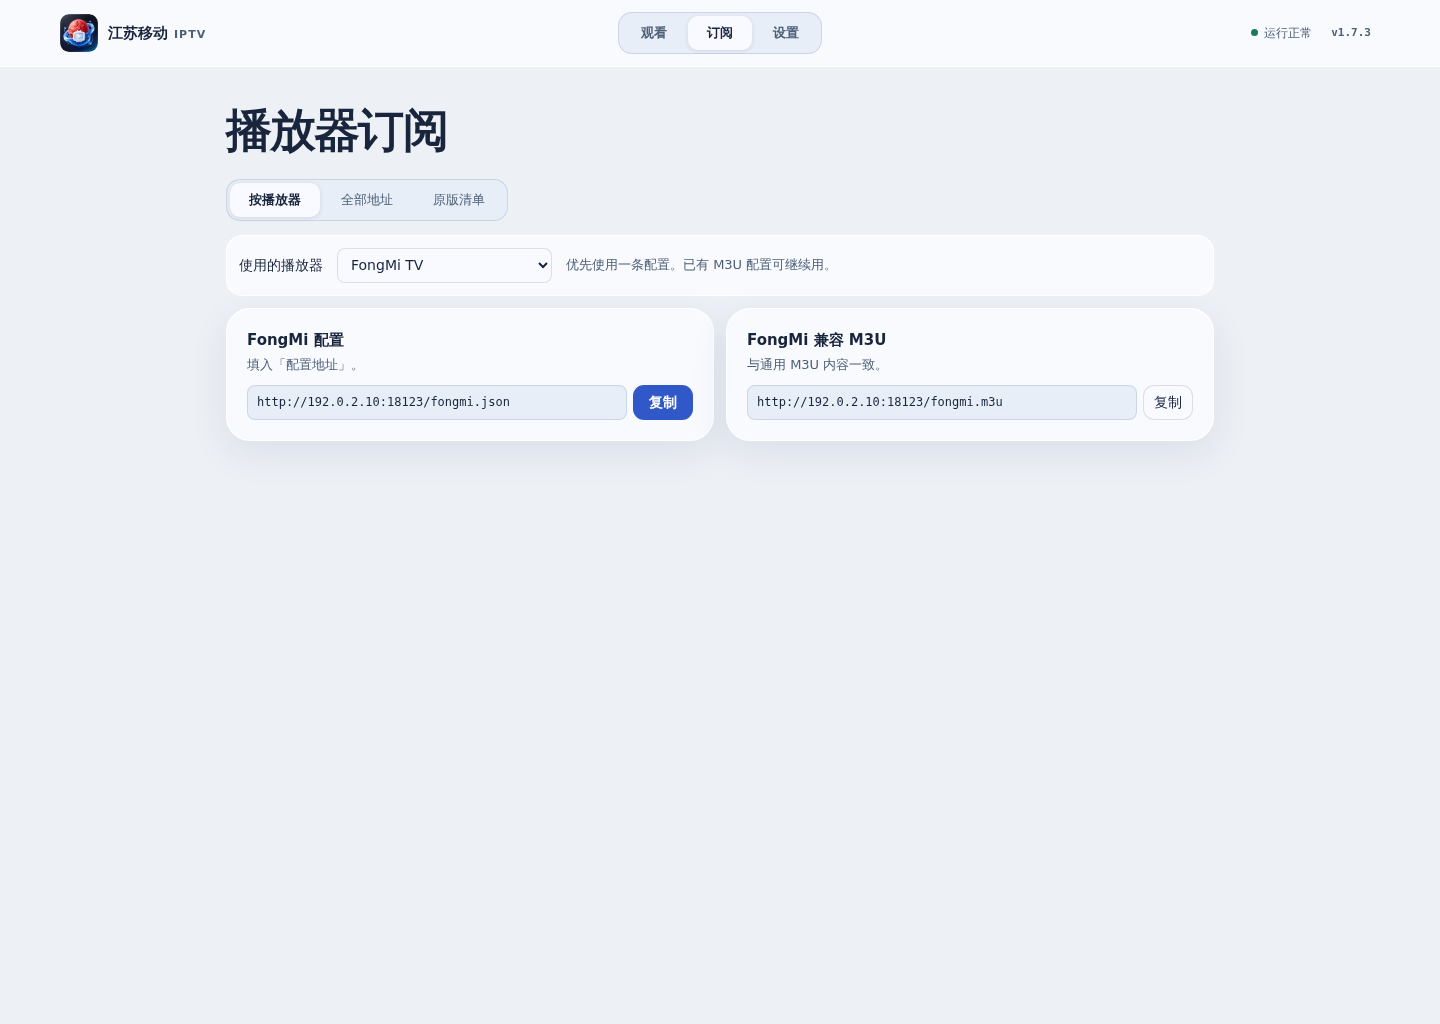
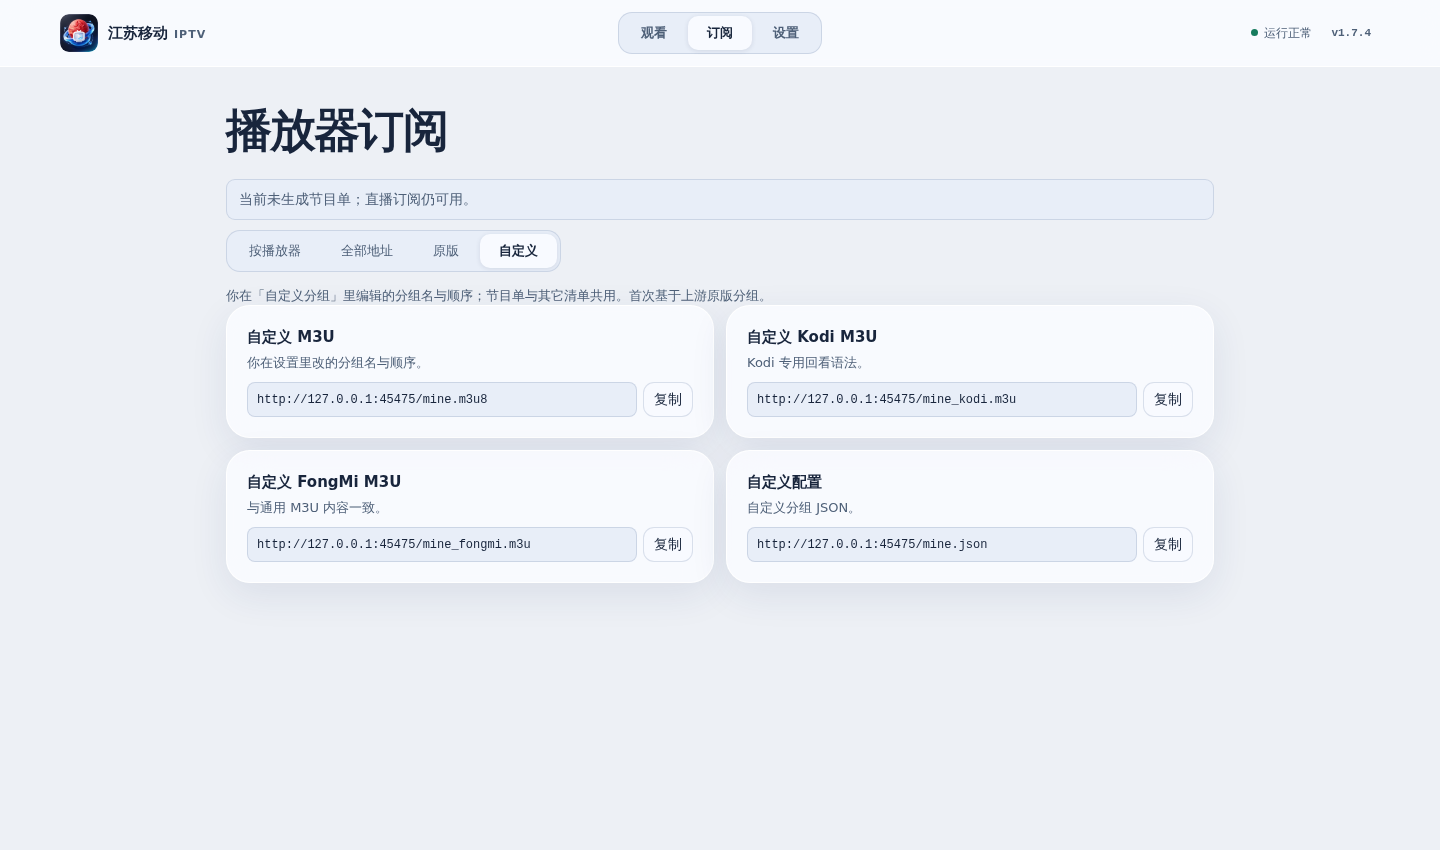
Prepare the v1.7.4 public release

diff --git a/verify/round1_api.py b/verify/round1_api.py
@@ -188,6 +188,15 @@ def main():
             live == by_id[uid]["live"] and supported == bool(by_id[uid]["catchup"])
             for (_, uid, live), supported in orig_list.items()))
         playlist("/orig.m3u8", orig_list, AP, meta["backup_days"])
+        mine = get("/mine.json")
+        mine_list = {(g["name"], str(c["uuid"]), c["live"]): bool(c["back"])
+                     for g in mine["groups"] for c in g["channels"]}
+        ck("自定义清单与主频道 ID、直播和回看能力一致（允许跨组重复）",
+           sum(len(g["channels"]) for g in mine["groups"]) == len(mine_list) == mine["total_entries"]
+           and all(uid in by_id and live == by_id[uid]["live"] and supported == bool(by_id[uid]["catchup"])
+                   for (_, uid, live), supported in mine_list.items()))
+        for path, tokens in (("/mine.m3u8", AP), ("/mine_kodi.m3u", KODI), ("/mine_fongmi.m3u", AP)):
+            playlist(path, mine_list, tokens, meta["backup_days"])
         main_epg = xmltv("/epg.xml", set(by_id))
         xmltv("/orig_epg.xml", orig_ids)
         ck("XMLTV 节目数与 meta.epg_programs 一致", len(main_epg) == meta["epg_programs"], len(main_epg))
@@ -195,6 +204,10 @@ def main():
         fongmi = get("/fongmi.json")
         tvbox = get("/tvbox.json")
         day_template = "/epg/{id}/{date}.json"
+        fongmi_paths = ("/fongmi.m3u", "/orig.m3u8", "/mine_fongmi.m3u")
+        ck("FongMi 三套直播入口及顺序正确", len(fongmi["lives"]) == len(fongmi_paths)
+           and all(item.get("type") == 0 and serves(item.get("url"), path)
+                   for item, path in zip(fongmi["lives"], fongmi_paths)))
         for name, doc, list_path, epg_path in (
             ("FongMi", fongmi, "/fongmi.m3u", day_template), ("TVBox", tvbox, "/iptv.m3u8", "/epg.xml"),
         ):

diff --git a/README.md b/README.md
@@ -14,7 +14,7 @@
 
 </div>
 
-![1.7.3 观看页示例](docs/screenshot.png)
+![1.7.4 观看页示例](docs/screenshot.png)
 
 ---
 
@@ -108,17 +108,17 @@
 
 | 文件 | 占位符语法 | 适用 |
 |---|---|---|
-| `iptv.m3u8`<br>`fongmi.m3u`<br>`orig.m3u8` | `${(b)yyyyMMddHHmmss}` / `${(e)yyyyMMddHHmmss}` | **APTV、FongMi、酷9、mytv-android、DIYP、TVBox** 及多数通用播放器 |
-| `kodi.m3u` | `${start:YmdHMS}` / `${end:YmdHMS}` | **仅 Kodi**（PVR IPTV Simple Client） |
+| `iptv.m3u8`<br>`fongmi.m3u`<br>`orig.m3u8`<br>`mine.m3u8`<br>`mine_fongmi.m3u` | `${(b)yyyyMMddHHmmss}` / `${(e)yyyyMMddHHmmss}` | **APTV、FongMi、酷9、mytv-android、DIYP、TVBox** 及多数通用播放器 |
+| `kodi.m3u`<br>`mine_kodi.m3u` | `${start:YmdHMS}` / `${end:YmdHMS}` | **仅 Kodi**（PVR IPTV Simple Client） |
 
 **两个必须知道的细节**：
 
 - **Kodi 的格式参数不能省**。写成 `${start}` 会变成整数时间戳（如 `1795610700`），源站不认，表现就是「点了回看还是直播」。
-- **`fongmi.json` 会引用 `fongmi.m3u` 和按日节目单**。Kodi 应使用自己的清单和 XMLTV，并在 IPTV Simple 中启用回看。两者的回看时间默认使用播放设备的系统时区，请设置为 `Asia/Shanghai`。[FongMi 配置](https://fongmi.github.io/TV/config/) · [Kodi IPTV Simple](https://github.com/kodi-pvr/pvr.iptvsimple#catchup)
+- **`fongmi.json` 提供智能、原版、自定义三套直播入口，并在启用 EPG 时提供按日节目单地址**。Kodi 应使用自己的清单和 XMLTV，并在 IPTV Simple 中启用回看。两者的回看时间默认使用播放设备的系统时区，请设置为 `Asia/Shanghai`。[FongMi 配置](https://fongmi.github.io/TV/config/) · [Kodi IPTV Simple](https://github.com/kodi-pvr/pvr.iptvsimple#catchup)
 
 > 另外：**酷9 的 EPG「解析格式」必须手动改成 XmlTV**（默认是 DIYP），否则节目单一直空着。
 
-![1.7.3 订阅页示例](docs/screenshot-player.png)
+![1.7.4 订阅页示例](docs/screenshot-player.png)
 
 ---
 
@@ -129,9 +129,9 @@
 - 关闭 EPG 后，从**下一次成功更新**开始不抓取节目；XMLTV 保留频道条目但不包含节目；不再为 FongMi 生成按日 JSON 或附带 EPG 地址。直播和支持回看的清单仍可用，但网页节目单不会显示可点选的回看节目。
 
 <details>
-<summary>查看 1.7.3 设置页</summary>
+<summary>查看 1.7.4 设置页</summary>
 
-![1.7.3 设置页示例](docs/screenshot-settings.png)
+![1.7.4 设置页示例](docs/screenshot-settings.png)
 
 </details>
 

diff --git a/docs/verification.md b/docs/verification.md
@@ -34,7 +34,7 @@ python3 -B verify/round1_api.py --base-url "$TEST_URL" --version "$VERSION" --mo
 # 将 --mode / --epg 替换成各次测试的实际设置；验证重启保留可加 --generation。
 ```
 
-- [ ] API 检查通过：两套清单、Kodi 格式、FongMi 配置与按日 EPG、EPG 关闭时的空表与不附带 EPG 地址、完整/精简实际产物一致。频道数按当前上游数据，不用历史固定值断言。
+- [ ] API 检查通过：智能、原版、自定义三套清单、Kodi 格式、FongMi 配置与按日 EPG、EPG 关闭时的空表与不附带 EPG 地址、完整/精简实际产物一致。频道数按当前上游数据，不用历史固定值断言。
 - [ ] 在测试首页执行 `verify/round2_ui.js`，记录 `ok` 和失败项。避开正在更新和人工筛选列表的时段。
 - [ ] 选两组普通直播和一组高画质台，实际确认连续画面与声音；在支持与不支持 HEVC 的浏览器分别验证。未测到的频道不显示真 4K；有合适直播备选档才可降档。
 - [ ] 对照节目单选已播节目，确认网页回看内容及时间段。刷新当前节目或遇到降档提示时，网页不得切回直播。

diff --git a/docs/development.md b/docs/development.md
@@ -18,6 +18,8 @@ bash tools/build.sh
 
 FPK 根层为 `manifest`、两个 `ICON*.PNG`、`app.tgz` 及 `cmd/`、`config/`、`wizard/`。`app.tgz` 直接包含 `server/`、`ui/`、`www/`；`www/VERSION`、应用 Logo 和许可文件在构建时加入。此构建脚本包含后续打包改进，不用于复现旧 Release 附件。
 
+正式版固定使用 `1.7.x`，每次发布只递增末段，例如 `1.7.4` → `1.7.5`。
+
 ## 装机边界
 
 网页设置和飞牛应用设置是两个入口。当前版在安装时注册桌面端口；安装后改端口可能需要重装以重新注册入口。`v1.7.3` 的 manifest 对默认端口 `18123` 声明了飞牛端口预检，不能把它当成对自定义端口的验证。默认端口和自定义端口都应在隔离机验收。网页服务仅面向受信任局域网。

diff --git a/docs/release-notes-1.7.4.md b/docs/release-notes-1.7.4.md
@@ -5,4 +5,4 @@
 - 订阅页可复制通用、Kodi 和 FongMi 自定义清单地址。FongMi 一条通配置新增三种直播入口，自定义清单复用 `epg.xml`。
 - 观看页台标改用深色光晕底，改善浅色台标对比度。
 
-升级保留已有清单。升级后请在设置页执行一次更新，以生成新订阅地址对应的清单。
+正常覆盖升级会保留已有清单；卸载重装前建议先备份配置及数据。升级后请在设置页执行一次更新，以生成新订阅地址对应的清单。

diff --git a/third-party/hls.js/README.md b/third-party/hls.js/README.md
@@ -5,5 +5,5 @@
 Source: [video-dev/hls.js v1.5.17](https://github.com/video-dev/hls.js/tree/v1.5.17).
[1 lines of base64/hex data omitted]
 
-See [LICENSE](LICENSE) for Apache-2.0 terms and upstream copyright notices.
+See [Apache-2.0.txt](Apache-2.0.txt) for the full license and [LICENSE](LICENSE) for upstream notices.
 The optional source map is not included in the FPK.
